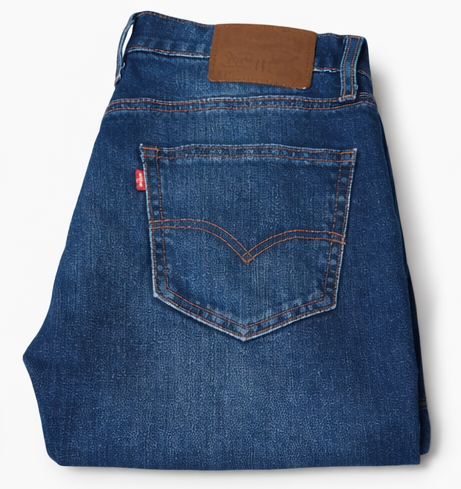
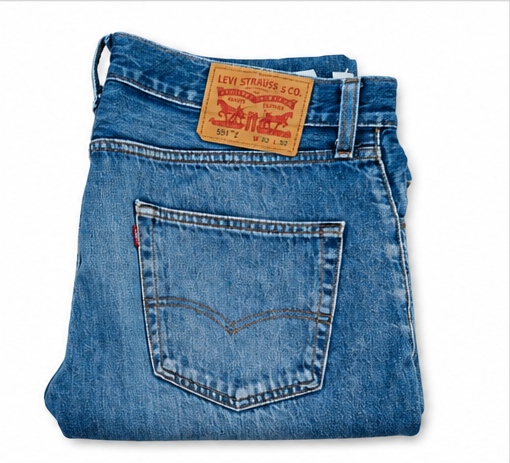
Add second batch of jeans — Conner, Levi's, Diesel, Lee (relaxed casual)

diff --git a/catalog.js b/catalog.js
@@ -188,6 +188,18 @@ const catalog = {
       fabric: "cotton", pattern: "solid", tuck: "untucked", sleeve: "short" },
   ],
   pants: [
+    { file: "pants_denim_conner_mid_blue.png",            name: "Conner Mid Blue",         sub: "Jeans", subsub: "Casual",
+      brand: "Conner", formality: ["Casual"], color: "mid blue", colorFamily: "cool", tone: "medium", season: "All Season", description: "Medium blue relaxed-fit Conner denim, casual wash with an easy everyday feel.",
+      fabric: "denim", pattern: "solid", cut: "relaxed", hem: "full", beltLoop: "wide" },
+    { file: "pants_denim_levis_mid_blue.png",             name: "Levi's Mid Blue",         sub: "Jeans", subsub: "Casual",
+      brand: "Levi's", formality: ["Casual"], color: "mid blue", colorFamily: "cool", tone: "medium", season: "All Season", description: "Medium blue relaxed-fit Levi's denim, lived-in wash with a casual everyday look.",
+      fabric: "denim", pattern: "solid", cut: "relaxed", hem: "full", beltLoop: "wide" },
+    { file: "pants_denim_diesel_dark_blue.png",           name: "Diesel Dark Blue",        sub: "Jeans", subsub: "Casual",
+      brand: "Diesel", formality: ["Casual"], color: "dark blue", colorFamily: "cool", tone: "dark", season: "All Season", description: "Dark blue relaxed-fit Diesel denim, casual feel despite the deeper wash.",
+      fabric: "denim", pattern: "solid", cut: "relaxed", hem: "full", beltLoop: "wide" },
+    { file: "pants_denim_lee_mid_blue_faded.png",         name: "Lee Mid Blue Faded",      sub: "Jeans", subsub: "Casual",
+      brand: "Lee", formality: ["Casual"], color: "faded blue", colorFamily: "cool", tone: "medium", season: "All Season", description: "Faded mid-blue Lee denim with visible whiskering, relaxed cut for a casual worn-in look.",
+      fabric: "denim", pattern: "solid", cut: "relaxed", hem: "full", beltLoop: "wide" },
     { file: "pants_denim_levis_dark_indigo.png",          name: "Levi's Dark Indigo",      sub: "Jeans", subsub: "Smart Casual",
       brand: "Levi's", formality: ["Smart Casual", "Casual"], color: "dark indigo", colorFamily: "cool", tone: "dark", season: "All Season", description: "Very dark indigo slim-straight Levi's denim, clean and deep enough to wear with a blazer.",
       fabric: "denim", pattern: "solid", cut: "slim", hem: "full", beltLoop: "wide" },